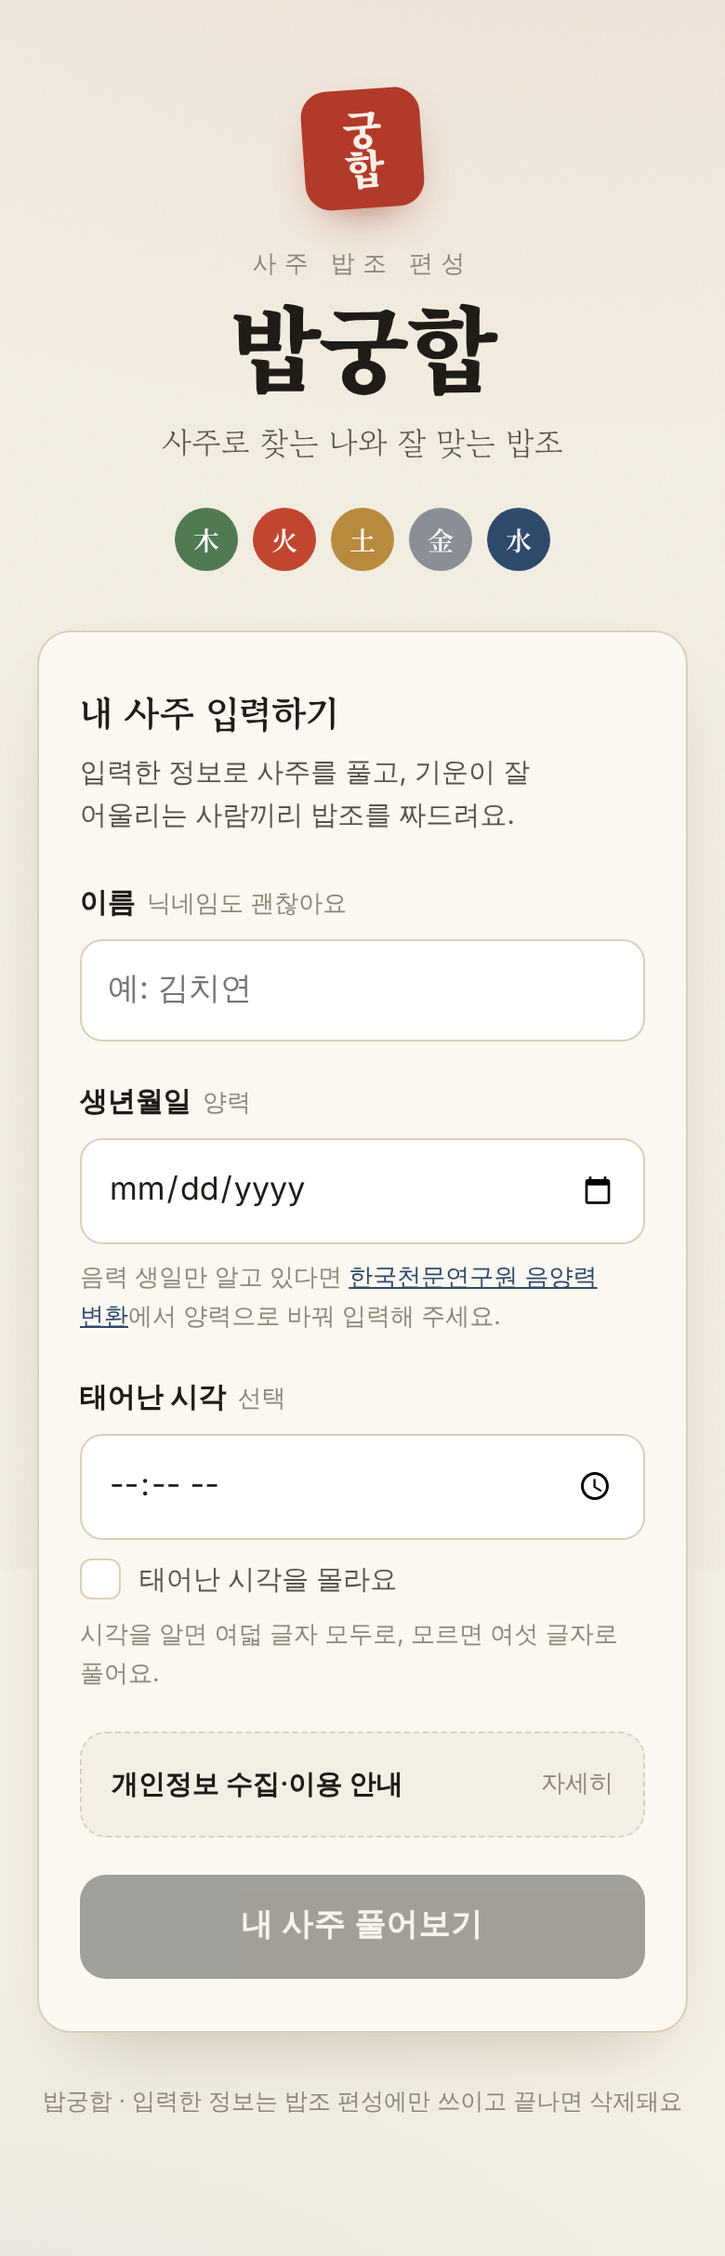
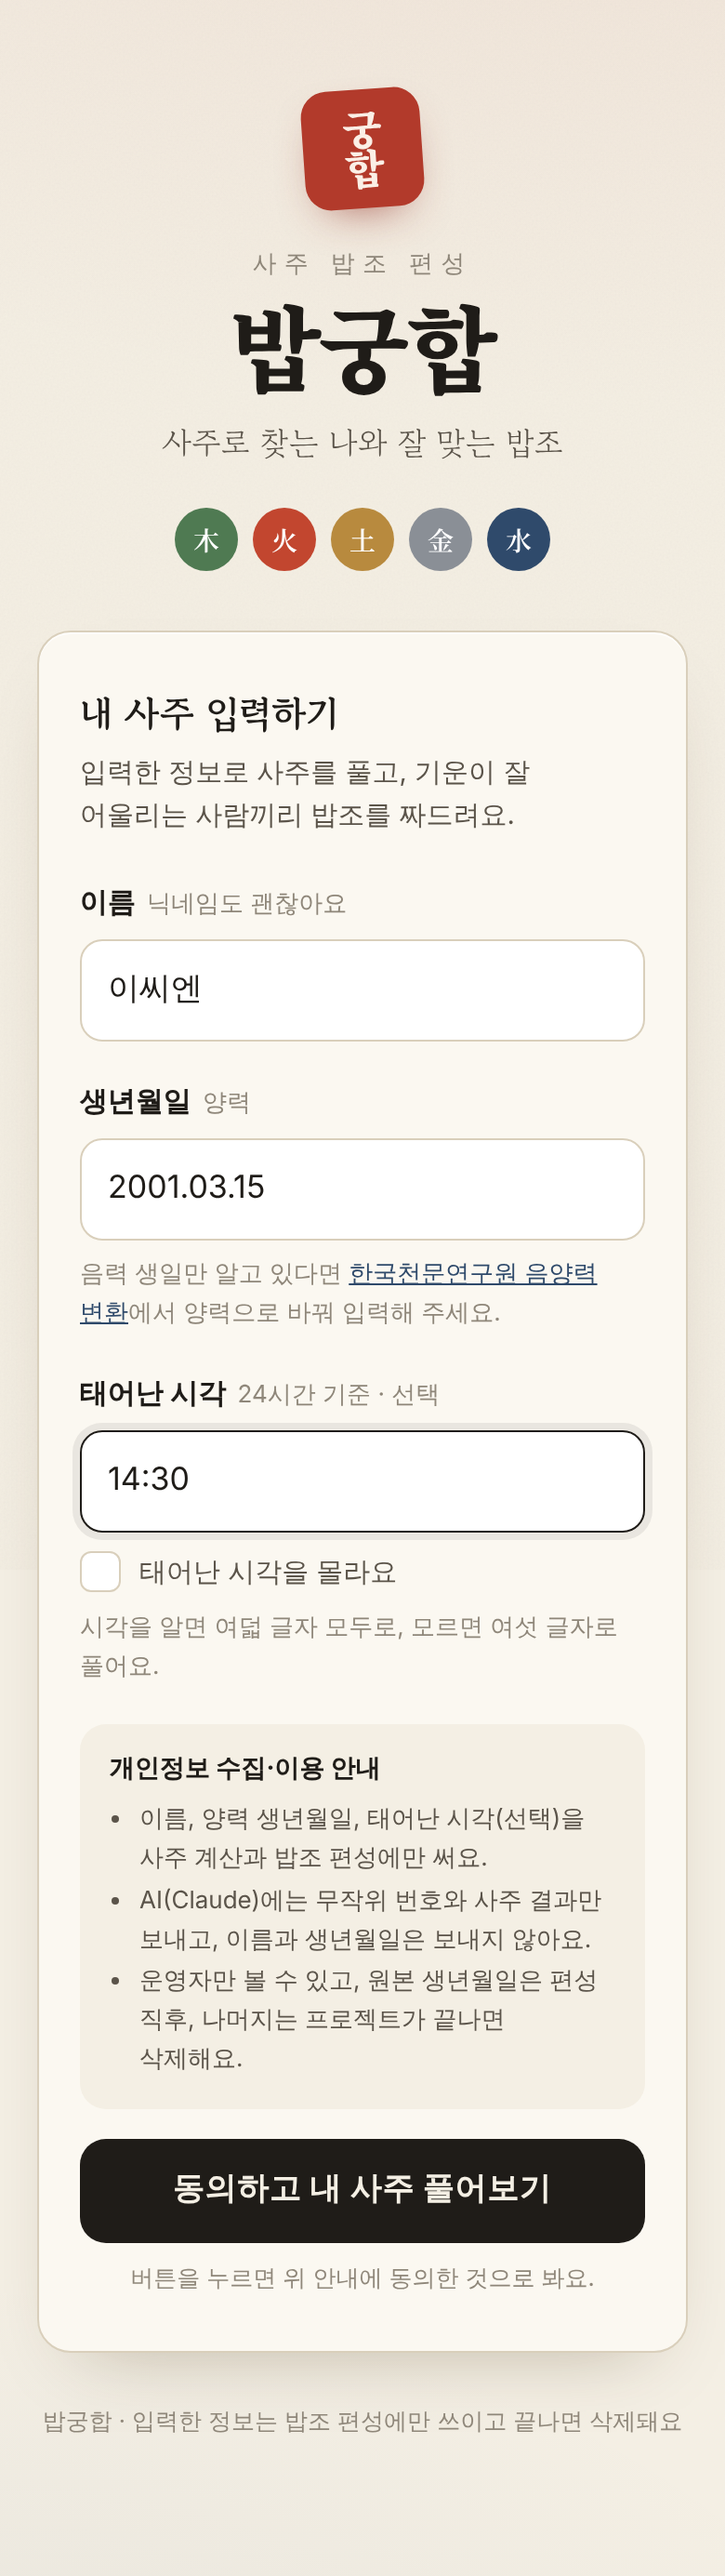
입력 폼 개선: 숫자 직접 입력, 24시간 시각, 간편 동의
- 생년월일과 시각을 달력 대신 숫자 키패드로 입력하고 자동으로 2001.03.15, 14:30 형태로 정리
- 개인정보 안내를 항상 보이게 하고 체크박스 대신 "동의하고 제출" 버튼으로 동의 처리
- 동의 문구 버전을 2026-10-30-v2로 올림

Claude-Session: https://claude.ai/code/session_012bKZfKa4NxDtXrmtTF5ER5

Changed region(s): [[0.0615, 0.0309, 0.9538, 0.9584], [0.8615, 0.5565, 0.8923, 0.5874], [0.8615, 0.4328, 0.8923, 0.4637]]

diff --git a/public/index.html b/public/index.html
@@ -183,25 +183,16 @@
 
     .consent {
       background: var(--paper);
-      border: 1px dashed var(--line);
       border-radius: 14px;
-      padding: 16px;
-      margin: 8px 0 20px;
+      padding: 14px 16px;
+      margin: 8px 0 16px;
+      font-size: 13px;
+      color: var(--ink-soft);
     }
-    .consent summary {
-      cursor: pointer;
-      font-weight: 600; font-size: 14.5px;
-      list-style: none;
-      display: flex; justify-content: space-between; align-items: center;
-    }
-    .consent summary::-webkit-details-marker { display: none; }
-    .consent summary::after { content: "자세히"; font-weight: 400; font-size: 13px; color: var(--ink-faint); }
-    .consent[open] summary::after { content: "접기"; }
-    .consent dl { margin: 14px 0 0; font-size: 13.5px; color: var(--ink-soft); }
-    .consent dt { font-weight: 600; color: var(--ink); margin-top: 10px; }
-    .consent dt:first-child { margin-top: 0; }
-    .consent dd { margin: 2px 0 0; }
-    .consent .check { margin-top: 14px; color: var(--ink); font-weight: 500; }
+    .consent strong { display: block; color: var(--ink); font-size: 13.5px; margin-bottom: 6px; }
+    .consent ul { margin: 0; padding-left: 16px; }
+    .consent li { margin: 2px 0; }
+    .consent-note { text-align: center; font-size: 12.5px; color: var(--ink-faint); margin: 10px 0 0; }
 
     .btn {
       width: 100%;
@@ -364,44 +355,37 @@
 
       <div class="field">
         <label class="title" for="name">이름 <small>닉네임도 괜찮아요</small></label>
-        <input type="text" id="name" name="name" maxlength="20" autocomplete="nickname" placeholder="예: 김치연" required>
+        <input type="text" id="name" name="name" maxlength="20" autocomplete="nickname" placeholder="예: 이씨엔" required>
       </div>
 
       <div class="field">
         <label class="title" for="birthDate">생년월일 <small>양력</small></label>
-        <input type="date" id="birthDate" name="birthDate" min="1900-01-01" required>
+        <input type="text" id="birthDate" name="birthDate" inputmode="numeric" autocomplete="off" placeholder="예: 2001.03.15" maxlength="10" required>
         <p class="hint">음력 생일만 알고 있다면 <a href="https://astro.kasi.re.kr/life/pageView/8" target="_blank" rel="noopener">한국천문연구원 음양력 변환</a>에서 양력으로 바꿔 입력해 주세요.</p>
       </div>
 
       <div class="field">
-        <label class="title" for="birthTime">태어난 시각 <small>선택</small></label>
-        <input type="time" id="birthTime" name="birthTime">
+        <label class="title" for="birthTime">태어난 시각 <small>24시간 기준 · 선택</small></label>
+        <input type="text" id="birthTime" name="birthTime" inputmode="numeric" autocomplete="off" placeholder="예: 14:30 (오후 2시 30분)" maxlength="5">
         <label class="check"><input type="checkbox" id="timeUnknown"> 태어난 시각을 몰라요</label>
         <p class="hint">시각을 알면 여덟 글자 모두로, 모르면 여섯 글자로 풀어요.</p>
       </div>
 
-      <details class="consent">
-        <summary>개인정보 수집·이용 안내</summary>
-        <dl>
-          <dt>수집 항목</dt>
-          <dd>이름(닉네임), 양력 생년월일, 태어난 시각(선택)</dd>
-          <dt>이용 목적</dt>
-          <dd>사주 계산과 밥조 편성. 다른 목적으로 쓰지 않아요.</dd>
-          <dt>AI 활용</dt>
-          <dd>밥조 편성에 AI(Claude)를 써요. AI에는 무작위 번호와 사주 결과만 보내고, 이름과 생년월일은 보내지 않아요.</dd>
-          <dt>보관 기간</dt>
-          <dd>원본 생년월일은 밥조 편성 직후, 나머지 정보는 프로젝트가 끝나면 모두 삭제해요.</dd>
-          <dt>열람 권한</dt>
-          <dd>운영자만 볼 수 있어요. 다른 참여자는 내 정보를 볼 수 없어요.</dd>
-        </dl>
-        <label class="check"><input type="checkbox" id="consent" required> 위 내용을 확인했고 동의해요</label>
-      </details>
+      <div class="consent">
+        <strong>개인정보 수집·이용 안내</strong>
+        <ul>
+          <li>이름, 양력 생년월일, 태어난 시각(선택)을 사주 계산과 밥조 편성에만 써요.</li>
+          <li>AI(Claude)에는 무작위 번호와 사주 결과만 보내고, 이름과 생년월일은 보내지 않아요.</li>
+          <li>운영자만 볼 수 있고, 원본 생년월일은 편성 직후, 나머지는 프로젝트가 끝나면 삭제해요.</li>
+        </ul>
+      </div>
 
       <div class="hp" aria-hidden="true">
         <label>웹사이트 <input type="text" name="website" tabindex="-1" autocomplete="off"></label>
       </div>
 
-      <button class="btn" type="submit" id="submit" disabled>내 사주 풀어보기</button>
+      <button class="btn" type="submit" id="submit" disabled>동의하고 내 사주 풀어보기</button>
+      <p class="consent-note">버튼을 누르면 위 안내에 동의한 것으로 봐요.</p>
       <div class="error" id="error" role="alert"></div>
     </form>
 
@@ -445,18 +429,41 @@
     const errorBox = document.getElementById('error');
     const timeInput = document.getElementById('birthTime');
     const timeUnknown = document.getElementById('timeUnknown');
-    const consent = document.getElementById('consent');
+    const dateInput = document.getElementById('birthDate');
 
     if (!inviteCode) {
       document.getElementById('no-invite').hidden = false;
     } else {
       form.hidden = false;
     }
-    document.getElementById('birthDate').max = new Date().toISOString().slice(0, 10);
+
+    // 숫자만 입력받아 2001.03.15, 14:30 형태로 자동 정리한다.
+    dateInput.addEventListener('input', () => {
+      const d = dateInput.value.replace(/\D/g, '').slice(0, 8);
+      dateInput.value = [d.slice(0, 4), d.slice(4, 6), d.slice(6, 8)].filter(Boolean).join('.');
+    });
+    timeInput.addEventListener('input', () => {
+      const d = timeInput.value.replace(/\D/g, '').slice(0, 4);
+      timeInput.value = d.length > 2 ? `${d.slice(0, 2)}:${d.slice(2)}` : d;
+    });
+
+    function parseDate(v) {
+      const m = /^(\d{4})\.(\d{2})\.(\d{2})$/.exec(v);
+      if (!m) return null;
+      const [y, mo, d] = m.slice(1).map(Number);
+      const date = new Date(y, mo - 1, d);
+      if (date.getMonth() !== mo - 1 || y < 1900 || date > new Date()) return null;
+      return `${m[1]}-${m[2]}-${m[3]}`;
+    }
+    function parseTime(v) {
+      const m = /^(\d{2}):(\d{2})$/.exec(v);
+      if (!m || Number(m[1]) > 23 || Number(m[2]) > 59) return null;
+      return v;
+    }
 
     function refreshButton() {
-      const ready = form.name.value.trim() && form.birthDate.value && consent.checked
-        && (timeUnknown.checked || timeInput.value);
+      const ready = form.name.value.trim() && parseDate(dateInput.value)
+        && (timeUnknown.checked || parseTime(timeInput.value));
       submitBtn.disabled = !ready;
     }
     form.addEventListener('input', refreshButton);
@@ -466,7 +473,6 @@
       if (timeUnknown.checked) timeInput.value = '';
       refreshButton();
     });
-    consent.addEventListener('change', () => { if (consent.checked) consent.closest('details').open = false; });
 
     function showError(msg) {
       errorBox.textContent = msg;
@@ -484,9 +490,9 @@
           headers: { 'Content-Type': 'application/json' },
           body: JSON.stringify({
             name: form.name.value.trim(),
-            birthDate: form.birthDate.value,
-            birthTime: timeUnknown.checked ? null : timeInput.value,
-            consent: consent.checked,
+            birthDate: parseDate(dateInput.value),
+            birthTime: timeUnknown.checked ? null : parseTime(timeInput.value),
+            consent: true,
             inviteCode,
             website: form.website.value,
           }),
@@ -496,7 +502,7 @@
         renderResult(form.name.value.trim(), data);
       } catch (err) {
         showError(err.message);
-        submitBtn.textContent = '내 사주 풀어보기';
+        submitBtn.textContent = '동의하고 내 사주 풀어보기';
         refreshButton();
       }
     });

diff --git a/api/submit.js b/api/submit.js
@@ -3,7 +3,7 @@
 import { createClient } from '@supabase/supabase-js';
 import { computeSaju } from '../lib/saju.js';
 
-const CONSENT_VERSION = '2026-10-30';
+const CONSENT_VERSION = '2026-10-30-v2';
 const LIBRARY_VERSIONS = { manseryeok: '2.0.0', 'lunar-javascript': '1.7.7' };
 
 const supabase = createClient(process.env.SUPABASE_URL, process.env.SUPABASE_SERVICE_ROLE_KEY, {
